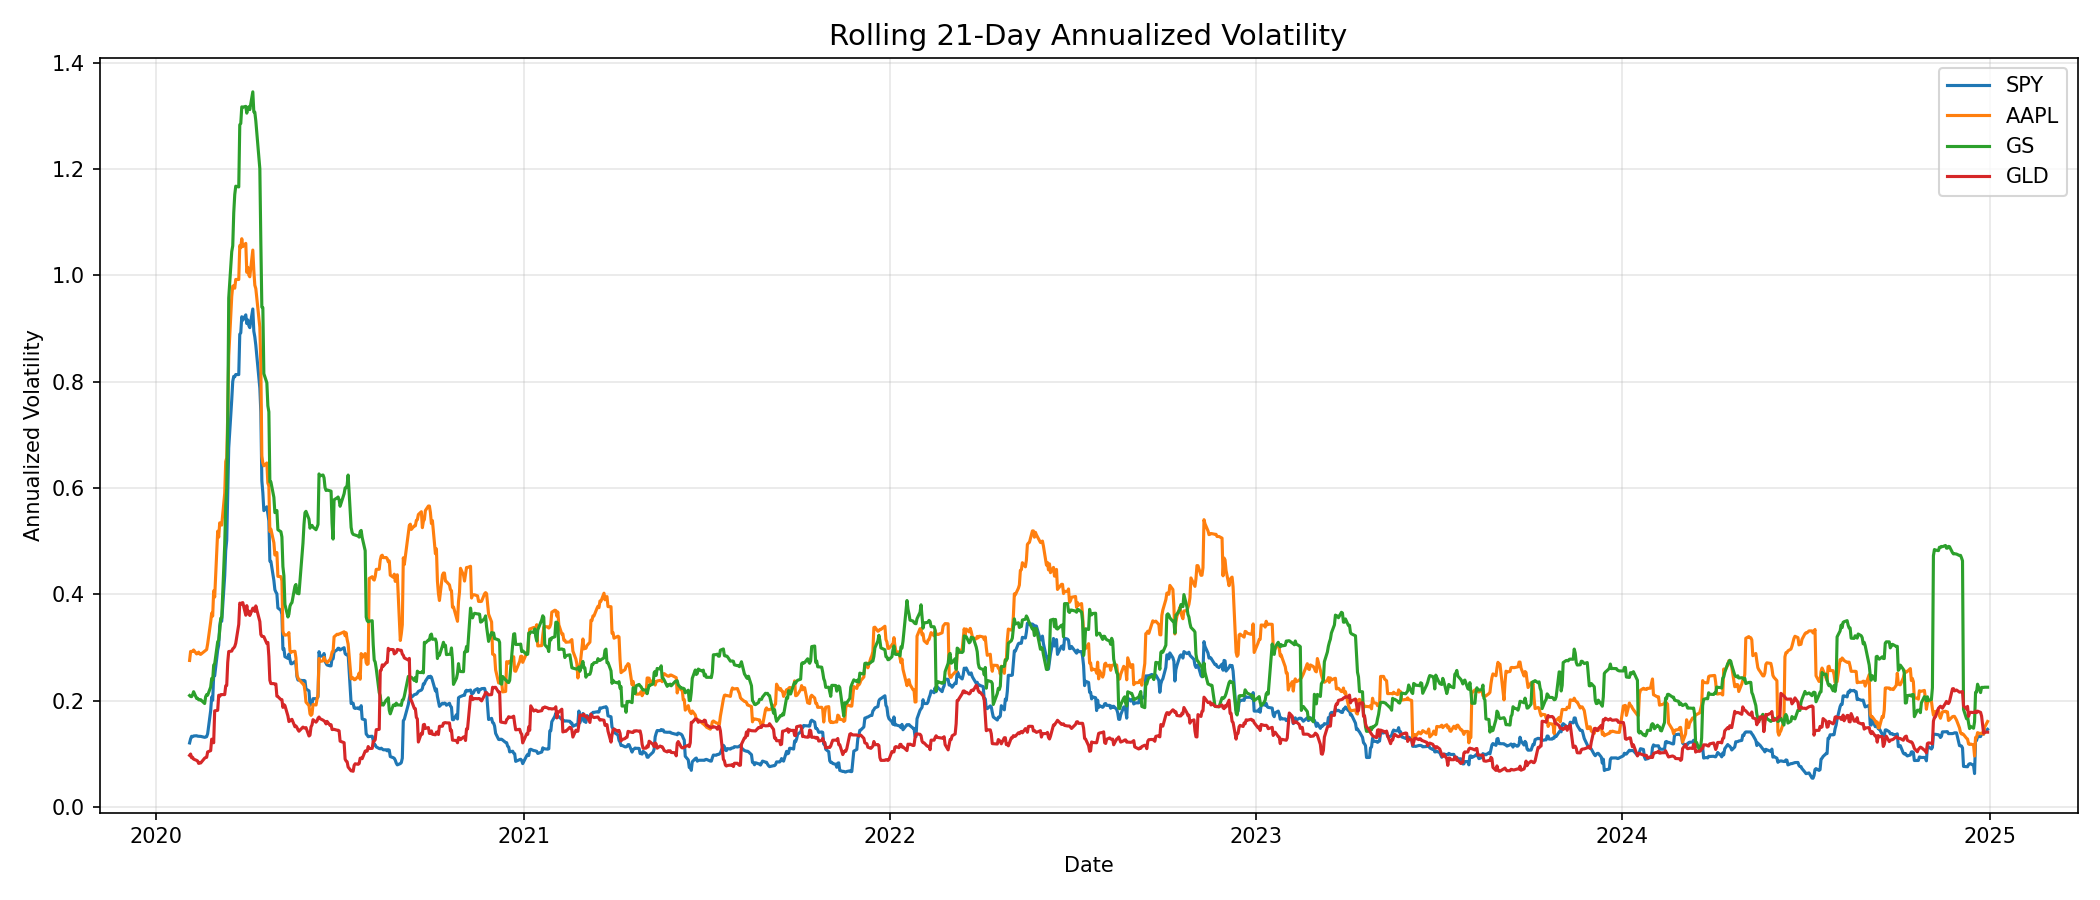
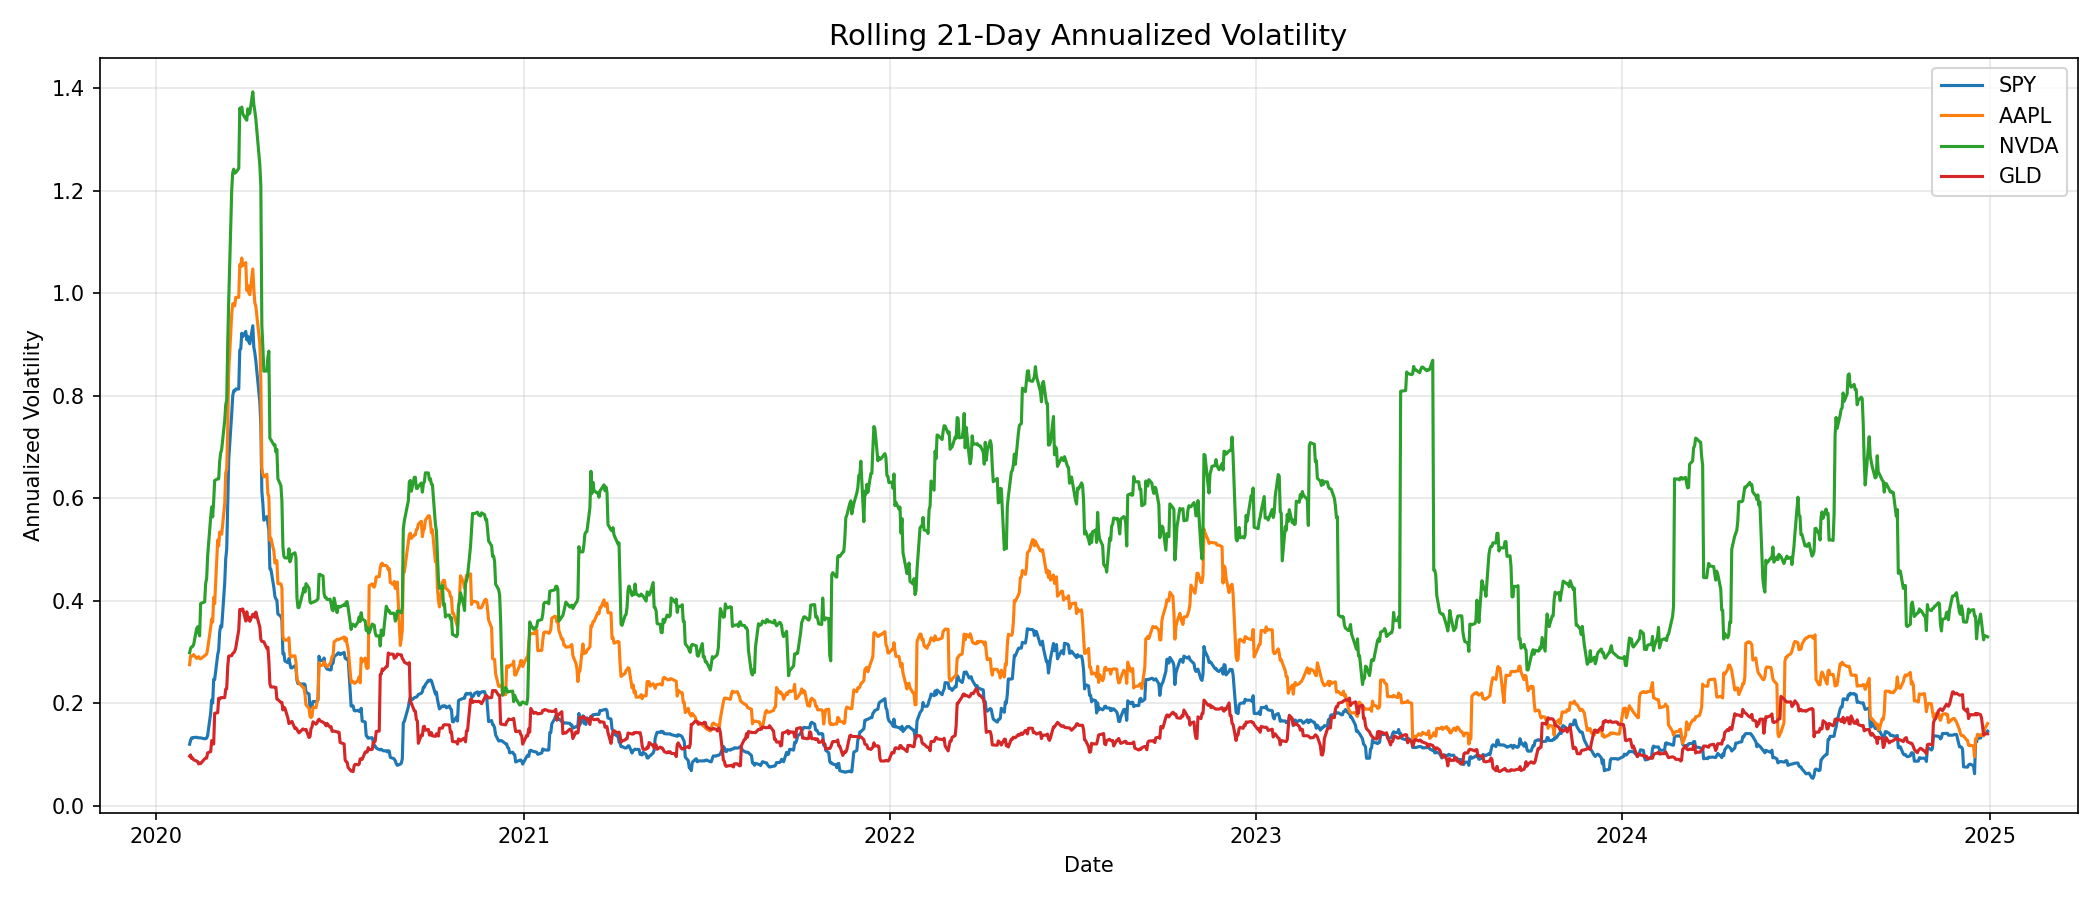
Day 2: analytics module and PortfolioAnalytics class complete

diff --git a/portfolio.py b/portfolio.py
@@ -1,0 +1,210 @@
+import pandas as pd
+import numpy as np
+import matplotlib.pyplot as plt
+
+
+class PortfolioAnalytics:
+    """
+    A self-contained analytics object for a portfolio of assets.
+
+    Usage:
+        pa = PortfolioAnalytics(prices)
+        pa.summary()
+        pa.plot_rolling_volatility(['SPY', 'AAPL'])
+        pa.plot_correlation_heatmap()
+    """
+
+    def __init__(self, prices: pd.DataFrame):
+        """
+        Initialize with a DataFrame of adjusted closing prices.
+        Automatically computes log returns on creation.
+
+        Args:
+            prices: DataFrame with dates as index, tickers as columns
+        """
+        self.prices      = prices
+        self.log_returns = self._compute_log_returns()
+        self.tickers     = prices.columns.tolist()
+        print(f"PortfolioAnalytics initialized: {len(self.tickers)} tickers, "
+              f"{len(self.prices)} trading days")
+
+    # ── Private methods (internal helpers) ────────────────────
+
+    def _compute_log_returns(self) -> pd.DataFrame:
+        """Compute log returns from prices. Called automatically on init."""
+        return np.log(self.prices / self.prices.shift(1)).dropna()
+
+    # ── Core analytics ─────────────────────────────────────────
+
+    def rolling_volatility(self, window: int = 21) -> pd.DataFrame:
+        """
+        Compute rolling annualized volatility.
+
+        Args:
+            window: lookback window in trading days (default 21 = 1 month)
+
+        Returns:
+            DataFrame of rolling annualized volatility
+        """
+        return (self.log_returns
+                    .rolling(window=window)
+                    .std()
+                    .dropna()
+                    * (252 ** 0.5))
+
+    def sharpe_ratio(self, risk_free_rate: float = 0.0) -> pd.Series:
+        """
+        Compute annualized Sharpe ratio for each ticker.
+
+        Args:
+            risk_free_rate: annual risk-free rate as decimal (default 0.0)
+
+        Returns:
+            Series of Sharpe ratios sorted descending
+        """
+        daily_rf      = risk_free_rate / 252
+        excess        = self.log_returns - daily_rf
+        mean_excess   = excess.mean() * 252
+        annual_std    = excess.std()   * (252 ** 0.5)
+        return (mean_excess / annual_std).round(3).sort_values(ascending=False)
+
+    def max_drawdown(self) -> pd.Series:
+        """
+        Compute maximum peak-to-trough drawdown for each ticker.
+
+        Returns:
+            Series of max drawdowns sorted ascending (worst first)
+        """
+        rolling_max = self.prices.cummax()
+        drawdown    = (self.prices - rolling_max) / rolling_max
+        return drawdown.min().round(3).sort_values()
+
+    def correlation_matrix(self) -> pd.DataFrame:
+        """
+        Compute pairwise correlation matrix of log returns.
+
+        Returns:
+            Symmetric correlation matrix
+        """
+        return self.log_returns.corr().round(2)
+
+    def summary(self) -> pd.DataFrame:
+        """
+        Print a combined summary table: Sharpe, max drawdown,
+        annualized return, and annualized volatility for every ticker.
+
+        Returns:
+            Summary DataFrame
+        """
+        annual_return = (self.log_returns.mean() * 252).round(3)
+        annual_vol    = (self.log_returns.std() * (252 ** 0.5)).round(3)
+        sharpe        = self.sharpe_ratio()
+        mdd           = self.max_drawdown()
+
+        summary_df = pd.DataFrame({
+            "Annual Return": annual_return,
+            "Annual Vol":    annual_vol,
+            "Sharpe":        sharpe,
+            "Max Drawdown":  mdd
+        }).sort_values("Sharpe", ascending=False)
+
+        print("\n── Portfolio Summary ──────────────────────────────")
+        print(summary_df.to_string())
+        print("───────────────────────────────────────────────────\n")
+        return summary_df
+
+    # ── Plotting ───────────────────────────────────────────────
+
+    def plot_rolling_volatility(self, tickers: list = None,
+                                window: int = 21) -> None:
+        """
+        Plot rolling annualized volatility for selected tickers.
+
+        Args:
+            tickers: list of tickers to plot (default: all)
+            window:  lookback window in trading days
+        """
+        if tickers is None:
+            tickers = self.tickers
+
+        roll_vol = self.rolling_volatility(window=window)
+
+        fig, ax = plt.subplots(figsize=(14, 6))
+        for ticker in tickers:
+            ax.plot(roll_vol.index, roll_vol[ticker],
+                    label=ticker, linewidth=1.5)
+
+        ax.set_title(f"Rolling {window}-Day Annualized Volatility", fontsize=14)
+        ax.set_xlabel("Date")
+        ax.set_ylabel("Annualized Volatility")
+        ax.legend(loc="upper right")
+        ax.grid(True, alpha=0.3)
+        plt.tight_layout()
+        plt.savefig("rolling_volatility.png", dpi=150)
+        plt.show()
+
+    def plot_correlation_heatmap(self) -> None:
+        """Plot a color-coded heatmap of the correlation matrix."""
+        corr = self.correlation_matrix()
+
+        fig, ax = plt.subplots(figsize=(12, 10))
+        im = ax.imshow(corr.values, cmap=plt.cm.RdBu_r,
+                       vmin=-1, vmax=1, aspect="auto")
+
+        tickers = corr.columns.tolist()
+        ax.set_xticks(range(len(tickers)))
+        ax.set_yticks(range(len(tickers)))
+        ax.set_xticklabels(tickers, rotation=45, ha="right", fontsize=10)
+        ax.set_yticklabels(tickers, fontsize=10)
+
+        for i in range(len(tickers)):
+            for j in range(len(tickers)):
+                val   = corr.values[i, j]
+                color = "white" if abs(val) > 0.7 else "black"
+                ax.text(j, i, f"{val:.2f}", ha="center", va="center",
+                        fontsize=8, color=color)
+
+        plt.colorbar(im, ax=ax, fraction=0.046, pad=0.04)
+        ax.set_title("Pairwise Correlation Matrix (Log Returns)", fontsize=13)
+        plt.tight_layout()
+        plt.savefig("correlation_heatmap.png", dpi=150)
+        plt.show()
+
+    def plot_sharpe_bars(self) -> None:
+        """Bar chart of Sharpe ratios across all tickers."""
+        sharpe = self.sharpe_ratio()
+
+        fig, ax = plt.subplots(figsize=(12, 5))
+        colors  = ["steelblue" if v >= 0 else "tomato" for v in sharpe.values]
+        ax.bar(sharpe.index, sharpe.values, color=colors,
+               edgecolor="white", linewidth=0.5)
+
+        ax.axhline(0, color="black",  linewidth=0.8)
+        ax.axhline(1, color="green",  linewidth=0.8,
+                   linestyle="--", label="Sharpe = 1")
+        ax.set_title("Annualized Sharpe Ratio by Ticker", fontsize=14)
+        ax.set_ylabel("Sharpe Ratio")
+        ax.legend()
+        ax.grid(True, alpha=0.3, axis="y")
+        plt.tight_layout()
+        plt.savefig("sharpe_ratios.png", dpi=150)
+        plt.show()
+
+
+# ── Main ───────────────────────────────────────────────────────
+
+if __name__ == "__main__":
+    # Load saved data — no re-downloading needed
+    print("Loading data...")
+    prices = pd.read_csv("prices.csv", index_col=0, parse_dates=True)
+
+    # Create the analytics object — one line, everything ready
+    pa = PortfolioAnalytics(prices)
+
+    # Full summary table
+    pa.summary()
+
+    # Charts
+    pa.plot_rolling_volatility(tickers=["SPY", "AAPL", "NVDA", "GLD"])
+    pa.plot_sharpe_bars()
+    pa.plot_correlation_heatmap()
